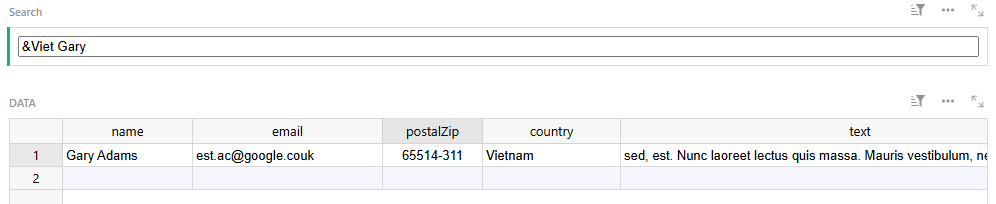
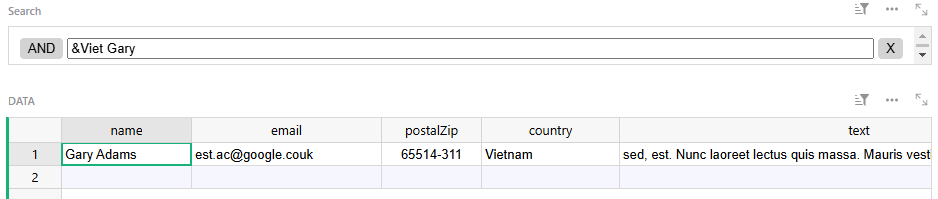
Simple filter update image

diff --git a/simplefilter/index.html b/simplefilter/index.html
@@ -29,7 +29,7 @@
         <td><button class="tag _grain803_" onclick="clearsearch()">X</button></td>
       </tr>
   </table>
-  <table id="config" style="display: block;">
+  <table id="config" style="display: none;">
     <tr>
       <td><button id="save" onclick="saveOption()" >Apply</button></td>
       <td style="text-align: right;"><button id="close" onclick="closeConfig()" >Close</button></td>
